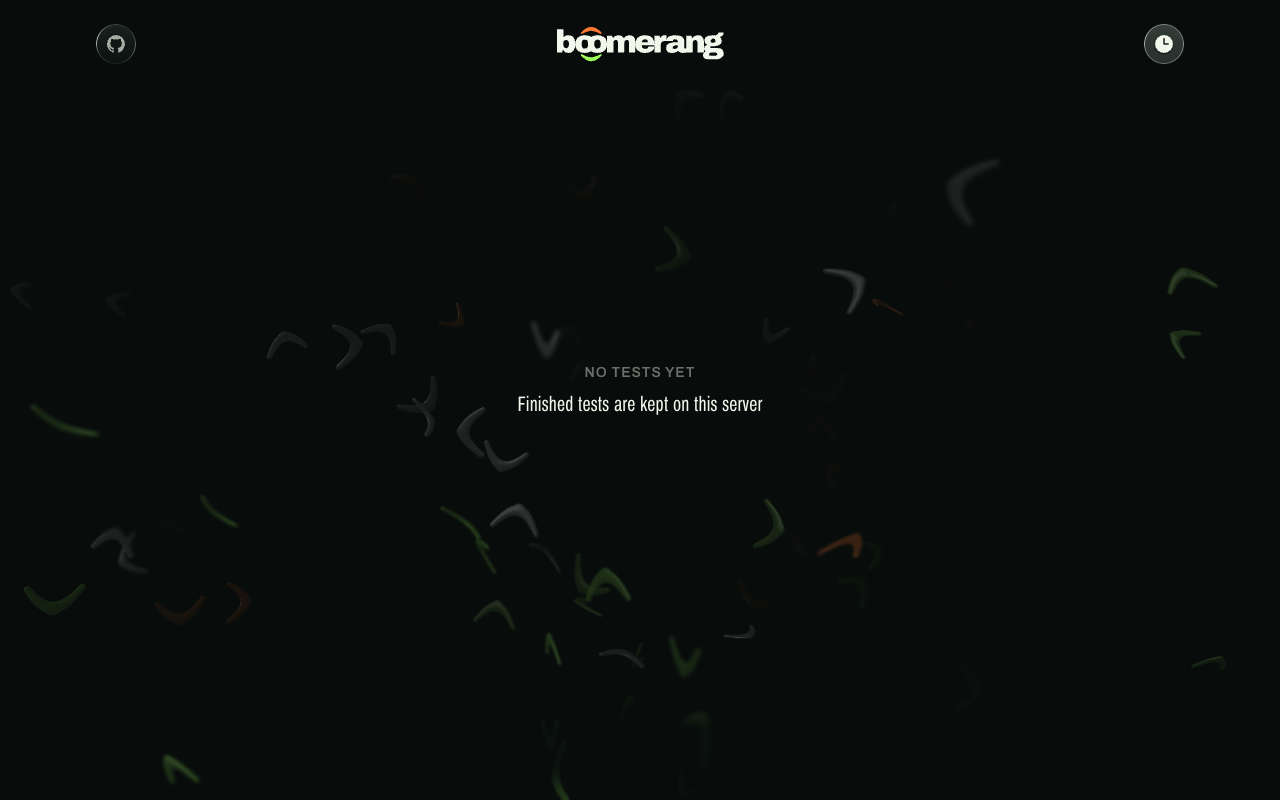
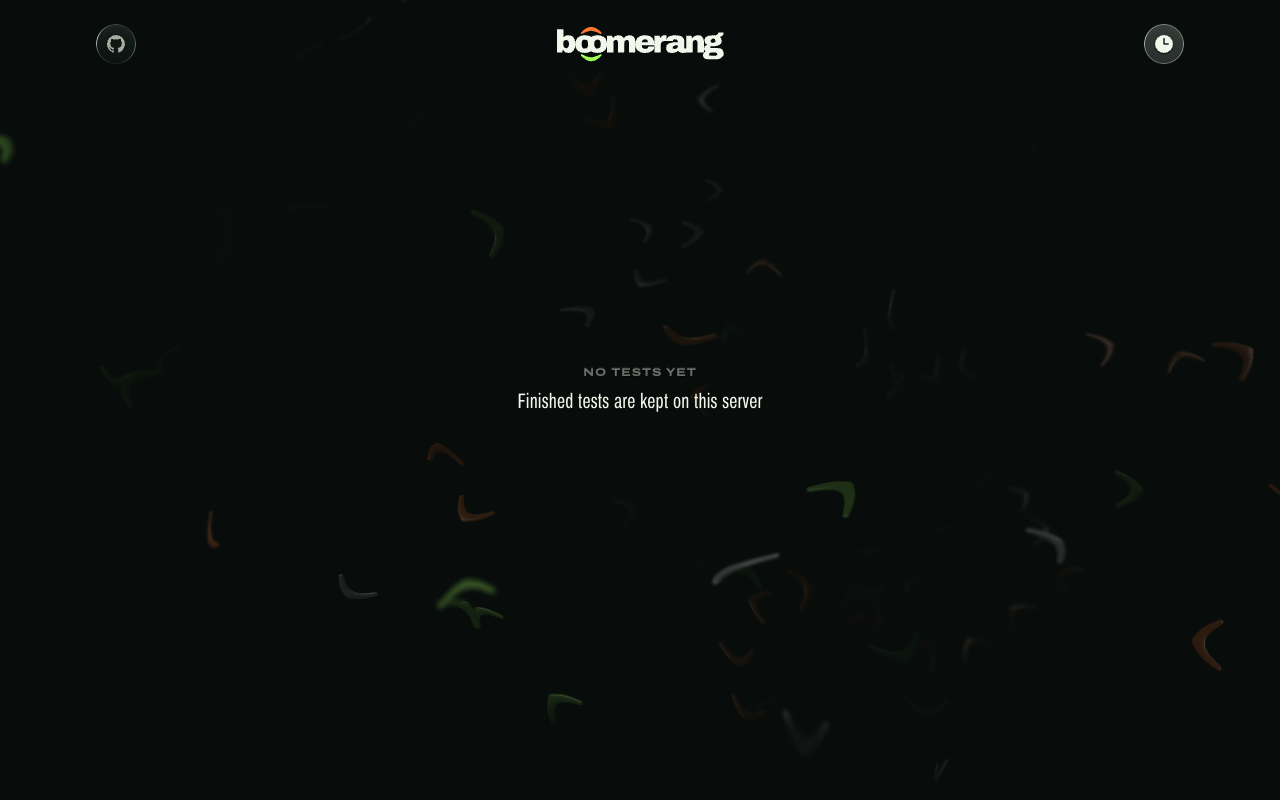
fix: letter the demo note and History's empty state like the keys
Simulated demo and No tests yet take the keys' wide capitals. In the bar
the label is bright and the line beside it muted; History's stays grey
over its row value. Self-host has its Docker icon back, and on a phone
the bar's keys sit 20px in so it still fits.

diff --git a/site/routes/+page.svelte b/site/routes/+page.svelte
@@ -9,7 +9,7 @@
   import '../app.css';
   import { onMount } from 'svelte';
   import { installIcons } from '../../src/lib/ui/logo';
-  import { KEY_LABEL, LABEL, VALUE } from '../../src/lib/ui/classes';
+  import { KEY_LABEL, VALUE } from '../../src/lib/ui/classes';
 
   const SITE = 'https://boomerang.fernando.is';
   const GUIDE = 'https://github.com/fmaclen/boomerang/blob/master/docs/self-hosting.md';
@@ -43,7 +43,7 @@
   });
 
   /** A secondary key, as the app draws Stop and Clear history: hollow, an even hairline round the label. */
-  const KEY = 'glass hollow inline-flex h-10 items-center gap-2 px-6 text-ink-2 transition-colors fine:hover:text-ink';
+  const KEY = 'glass hollow inline-flex h-10 items-center gap-2 px-5 sm:px-6 text-ink-2 transition-colors fine:hover:text-ink';
   /** Trims a label to its capitals, so it sits on the middle of its key the way the app's labels do. */
   const TRIM = '[text-box:trim-both_cap_alphabetic]';
 </script>
@@ -66,17 +66,24 @@
 </svelte:head>
 
 <div class="flex h-dvh flex-col">
-  <!-- The bar is the app's own chrome: the note in the pair History's empty state uses, a
-       label over a value set side by side, and the links as its secondary keys. -->
+  <!-- The bar is the app's own chrome: the note as a bright key-face label beside a muted
+       value, and the links as its secondary keys. -->
   <header class="flex h-16 flex-none items-center justify-between gap-4 border-b border-ink/8 px-4 sm:px-6">
     <p class="m-0 flex min-w-0 items-center gap-3" data-testid="demo-note">
       <span class="size-2 flex-none rounded-full bg-lime shadow-[0_0_10px_rgba(161,255,89,0.8)]" aria-hidden="true"></span>
       <!-- On a phone it stacks on two lines, to leave the keys their room. -->
-      <span class="flex-none whitespace-nowrap text-ink-3 max-sm:w-min max-sm:whitespace-normal {TRIM} {LABEL}">Simulated demo</span>
-      <span class="ml-1 hidden truncate md:block {TRIM} {VALUE}">Not a measurement of your connection</span>
+      <span class="flex-none whitespace-nowrap text-ink max-sm:w-min max-sm:whitespace-normal max-sm:leading-[1.5] {TRIM} {KEY_LABEL}"
+        >Simulated demo</span
+      >
+      <span class="ml-1 hidden truncate md:block {TRIM} {VALUE}"><span class="text-ink-3">Not a measurement of your connection</span></span>
     </p>
     <nav class="flex flex-none items-center gap-2" aria-label="Boomerang">
-      <a class={KEY} href={GUIDE}><span class="{TRIM} {KEY_LABEL}">Self-host</span></a>
+      <a class={KEY} href={GUIDE}>
+        <svg class="size-4 flex-none drop-shadow-[0_1px_1px_rgba(0,0,0,0.7)]" viewBox="0 0 24 24" fill="currentColor" aria-hidden="true"
+          ><path d="M13.98 11.08h2.12a.19.19 0 0 0 .19-.19V9.01a.19.19 0 0 0-.19-.19h-2.12a.18.18 0 0 0-.18.18v1.9c0 .1.08.18.18.18m-2.95-5.43h2.12a.19.19 0 0 0 .18-.19V3.57a.19.19 0 0 0-.18-.18h-2.12a.18.18 0 0 0-.19.18v1.9c0 .1.09.18.19.18m0 2.71h2.12a.19.19 0 0 0 .18-.18V6.29a.19.19 0 0 0-.18-.18h-2.12a.18.18 0 0 0-.19.18v1.89c0 .1.09.18.19.18m-2.93 0h2.12a.19.19 0 0 0 .18-.18V6.29a.18.18 0 0 0-.18-.18H8.1a.18.18 0 0 0-.18.18v1.89c0 .1.08.18.18.18m-2.96 0h2.11a.19.19 0 0 0 .19-.18V6.29a.18.18 0 0 0-.19-.18H5.14a.19.19 0 0 0-.19.18v1.89c0 .1.08.18.19.18m5.89 2.72h2.12a.19.19 0 0 0 .18-.19V9.01a.19.19 0 0 0-.18-.19h-2.12a.18.18 0 0 0-.19.18v1.9c0 .1.09.18.19.18m-2.93 0h2.12a.18.18 0 0 0 .18-.19V9.01a.18.18 0 0 0-.18-.19H8.1a.18.18 0 0 0-.18.19v1.89c0 .1.08.19.18.19m-2.96 0h2.11a.18.18 0 0 0 .19-.19V9.01a.18.18 0 0 0-.18-.19H5.14a.19.19 0 0 0-.19.19v1.89c0 .1.08.19.19.19m-2.92 0h2.12a.18.18 0 0 0 .18-.19V9.01a.18.18 0 0 0-.18-.19H2.22a.18.18 0 0 0-.19.19v1.89c0 .1.08.19.19.19m21.54-1.19c-.06-.05-.67-.51-1.95-.51-.34 0-.68.03-1.01.09a3.77 3.77 0 0 0-1.72-2.57l-.34-.2-.23.33a4.6 4.6 0 0 0-.6 1.43c-.24.93-.1 1.8.36 2.55-.56.31-1.45.38-1.63.39H.75a.75.75 0 0 0-.75.75 11.38 11.38 0 0 0 .7 4.06 6.03 6.03 0 0 0 2.4 3.12c1.18.73 3.1 1.14 5.28 1.14.98 0 1.96-.09 2.93-.27a12.1 12.1 0 0 0 3.82-1.39 10.5 10.5 0 0 0 2.6-2.13c1.25-1.42 2-3 2.55-4.4h.22c1.37 0 2.21-.55 2.68-1.01.31-.3.55-.65.71-1.05l.1-.29Z" /></svg
+        >
+        <span class="{TRIM} {KEY_LABEL}">Self-host</span>
+      </a>
       <!-- Until a release exists, a phone has no room for the releases link beside Self-host. -->
       <a
         class="{KEY} {release ? '' : 'max-sm:hidden'}"

diff --git a/tests/history.spec.ts b/tests/history.spec.ts
@@ -350,20 +350,21 @@ for (const [width, viewport] of Object.entries(WIDTHS)) {
     }
   });
 
-  test(`the empty state reads as a small label over a row's value (${width})`, async ({ page }) => {
+  test(`the empty state reads as a key's lettering, in a head's grey, over a row's value (${width})`, async ({ page }) => {
     await page.setViewportSize(viewport);
     await seedHistory(page, fixtureHistory());
     await page.goto('/');
     await openHistory(page);
     await expect(page.getByTestId('history-item')).toHaveCount(3);
-    const head = await computed(page.locator('#histHead > span').first(), [...TYPE, 'color']);
+    const { color: grey } = await computed(page.locator('#histHead > span').first(), ['color']);
     const value = await computed(page.locator('[data-testid=history-item] .run > span').first(), TYPE);
+    const key = await computed(page.getByTestId('history-clear').locator('span'), TYPE);
 
     await page.getByTestId('history-clear').click();
     await page.getByTestId('history-clear-confirm').click();
     const title = page.getByText('No tests yet');
     await expect(title).toBeVisible();
-    expect(await computed(title, [...TYPE, 'color'])).toEqual(resized(head, SIZES[width as keyof typeof SIZES].label));
+    expect(await computed(title, [...TYPE, 'color'])).toEqual({ ...key, color: grey });
     expect(await computed(page.getByText('Finished tests are kept on this server'), TYPE)).toEqual(value);
   });
 }

diff --git a/src/lib/ui/HistoryLayer.svelte b/src/lib/ui/HistoryLayer.svelte
@@ -12,8 +12,8 @@
   their top there (`.pinned`, see history.ts) so the list grows downwards. On
   a phone the actions sit at the foot of the layer, where the bottom key
   sits on the start screen, and the rows scroll above them.
-  The layer sets the type's sizes (--fs, --lab), so the empty state's words
-  take the table's.
+  The layer sets the type's sizes (--fs, --lab), so the empty state's line
+  takes the table's.
 -->
 <script lang="ts">
   import { formatMs, formatRate, historyMode } from '../engine';
@@ -153,9 +153,9 @@
       </div>
     </div>
   </div>
-  <!-- No runs yet: said plainly where Start sits in idle, as a column head over a row's value. -->
+  <!-- No runs yet: said plainly where Start sits in idle, in a key's lettering over a row's value. -->
   <div class="invisible absolute inset-x-0 top-1/2 grid justify-items-center gap-y-2.5 text-center opacity-0 [transform:translateY(-50%)]" id="histEmpty">
-    <p class="{HEAD} text-ink-3">No tests yet</p>
+    <p class="{KEY_LABEL} whitespace-nowrap text-ink-3">No tests yet</p>
     <p class={VALUE}>Finished tests are kept {historyMode() === 'browser' ? 'in this browser' : 'on this server'}</p>
   </div>
 </section>
